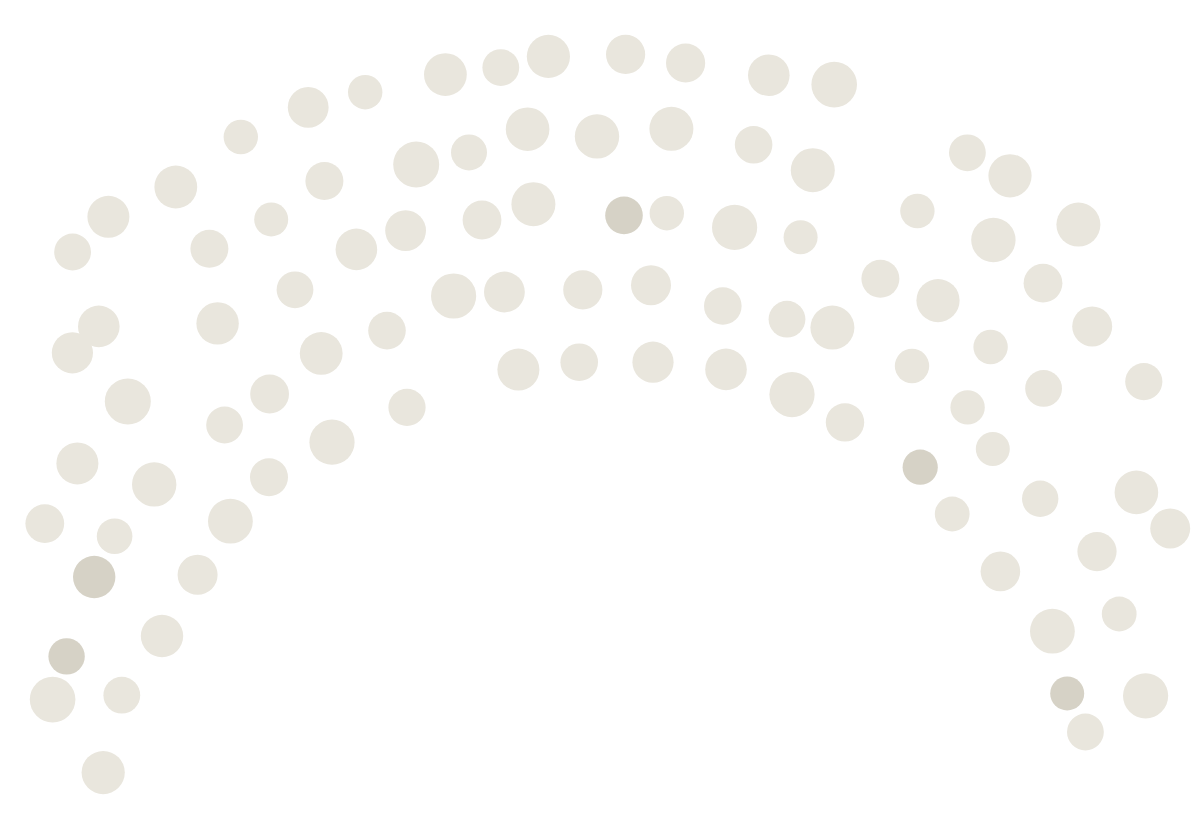
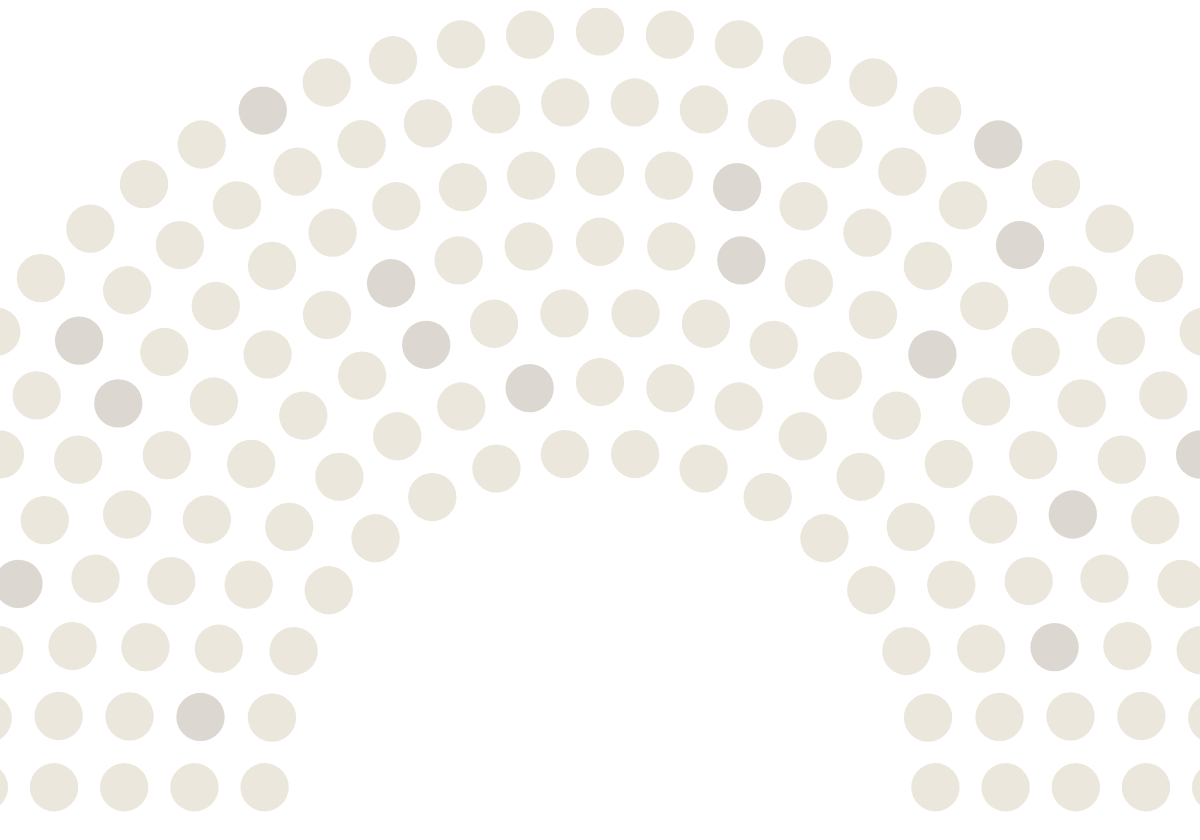
feat(email): sfondo con l'emiciclo del volantino ISWC

diff --git a/scripts/email/seggi.html b/scripts/email/seggi.html
@@ -1,33 +1,12 @@
 <!doctype html>
 <html lang="it"><head><meta charset="utf-8">
-<!-- Sfondo delle email (Brevo, modelli 2 e 3): seggi dell'emiciclo che
-     spuntano da dietro il riquadro bianco, un po' irregolari come in Aula.
+<!-- Sfondo delle email (Brevo, modelli 2 e 3): l'emiciclo dei seggi del volantino
+     ISWC (comunicazione/presentazioni/iswc2026-poster/assets/hemicycle-bg.svg, senza
+     il seggio blu), più largo del riquadro, che lo copre in parte.
      Si rende con scripts/email/intestazione.py in public/email/seggi@2x.png. -->
-<style>html, body { margin: 0; background: transparent; } svg { display: block; }</style>
-</head><body>
-<svg id="seggi" width="600" height="420" viewBox="0 0 600 420"></svg>
-<script>
-// Pseudo-random fisso: lo stesso disegno a ogni resa.
-let seme = 7;
-const caso = () => ((seme = (seme * 16807) % 2147483647) / 2147483647);
-// Tutto l'emiciclo ruotato di qualche grado, perché non sembri uno schema.
-const s = document.getElementById("seggi"), cx = 300, cy = 430, giro = -5 * Math.PI / 180;
-[250, 288, 326, 364, 402].forEach((r, i) => {
-  const passi = Math.round(Math.PI * r / 34);
-  for (let k = 0; k <= passi; k++) {
-    const a = Math.PI + (Math.PI * (k + (caso() - 0.5) * 0.5)) / passi;
-    const rr = r + (caso() - 0.5) * 9, raggio = 10 + (caso() - 0.5) * 3;
-    const x = cx + rr * Math.cos(a + giro), y = cy + rr * Math.sin(a + giro);
-    // niente seggi tagliati dal bordo dell'immagine
-    if (x < raggio + 2 || x > 598 - raggio || y < raggio + 2 || y > 418 - raggio) continue;
-    if (caso() < 0.12) continue; // qualche seggio vuoto
-    const c = document.createElementNS("http://www.w3.org/2000/svg", "circle");
-    c.setAttribute("cx", x.toFixed(1));
-    c.setAttribute("cy", y.toFixed(1));
-    c.setAttribute("r", raggio.toFixed(1));
-    c.setAttribute("fill", caso() < 0.08 ? "#d6d2c6" : "#e9e6dd");
-    s.appendChild(c);
-  }
-});
-</script>
-</body></html>
+<style>
+html, body { margin: 0; background: transparent; }
+body { width: 600px; height: 420px; position: relative; overflow: hidden; }
+img { position: absolute; left: 50%; top: 4px; width: 780px; transform: translateX(-50%); }
+</style></head>
+<body><img src="emiciclo.svg" alt=""></body></html>
